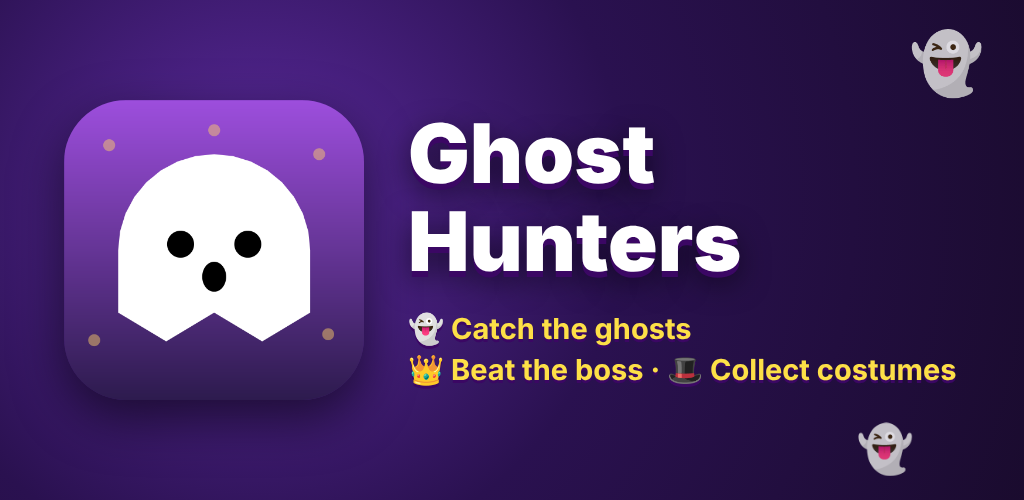
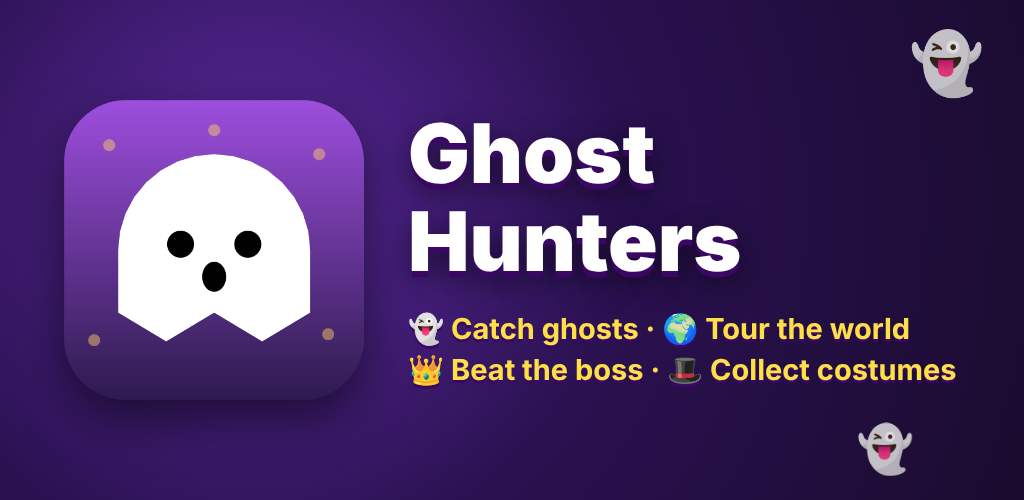
Hayalet Avcıları: tanıtım görseli 3.14.0'a göre (🌍 Dünyayı gez) ve Play'e yükleme isteği
- 7 dilde tanıtım görselinin alt yazısına Dünya Turu eklendi; İspanyolcada
  alt yazı 25 px (satırlar sözcük ortasından bölünmüyordu).
- Telefon kareleri değişmedi (Play'dekiyle aynı).
- play-istek.txt: gorsel uygula.

Claude-Session: https://claude.ai/code/session_015Vo1HAyPGueQrfJdNnp6L6

Changed region(s): [[0.5312, 0.63, 0.9062, 0.69]]

diff --git a/hayalet-avcilari/README.md b/hayalet-avcilari/README.md
@@ -7,7 +7,7 @@ giriş `@codetrix-studio/capacitor-google-auth`, reklamlar `@capacitor-community
 | | |
 |---|---|
 | Paket | `com.poyrazworkshop.hayaletavcilari` |
-| Sürüm | 3.14.0 (versionCode 47) — Dünya Turu (51 ülke, geleneksel kıyafetli bosslar, pasaport), ülke müzikleri, hiç sıkmayan reklam sıklığı (aşağıda "3.14.0: Dünya Turu" ve "3.14.0: ülke müzikleri"); 3.13.1'in reklam içerik sınırını da taşır (3.13.1 (46) Play'e gönderilmedi). 24 Ekim 2026'da kullanıcının onayıyla ("Kalan işleri de yap") üretime yüklendi ve incelemeye gönderildi (koşu 40122638806; üretimdeki 3.13.0 (45)'in yerini aldı); mağaza metni ve görseller 7 dilde 3.14.0'a göre (7 kare, yedincisi Dünya Turu). Dünya Turu odasının kuralları aynı gün yayınlandı (koşu 40122381332). Önceki: 3.13.0 (versionCode 45) — arkadaşlar ve oyuna davet, yeni engeller, online tur sıralaması ve kupa; 24 Ekim 2026'da kullanıcının onayıyla ("Evet, gönder") üretime yüklendi ve incelemeye gönderildi (koşu 40063254710; üretimdeki 3.12.2 (44)'ün yerini aldı); mağaza görselleri de 3.13.0'a göre yenilendi (7 dil, 6 kare: yeni engeller, kupa, Arkadaşlar; koşu 40064955789). Kurallar (arkadaş düğümleri, `av`, 3.12.2'nin `maxPlayers` 2–6'sı, 3.12.0 dizini) 24 Ekim 2026'da GitHub'dan yayınlandı (koşu 40066828973): [`firebase/README.md` › Yayınlama](firebase/README.md#yayınlama) |
+| Sürüm | 3.14.0 (versionCode 47) — Dünya Turu (51 ülke, geleneksel kıyafetli bosslar, pasaport), ülke müzikleri, hiç sıkmayan reklam sıklığı (aşağıda "3.14.0: Dünya Turu" ve "3.14.0: ülke müzikleri"); 3.13.1'in reklam içerik sınırını da taşır (3.13.1 (46) Play'e gönderilmedi). 24 Ekim 2026'da kullanıcının onayıyla ("Kalan işleri de yap") üretime yüklendi ve incelemeye gönderildi (koşu 40122638806; üretimdeki 3.13.0 (45)'in yerini aldı); mağaza metni ve görseller 7 dilde 3.14.0'a göre (7 kare, yedincisi Dünya Turu; tanıtım görselinin alt yazısında "🌍 Dünyayı gez"). Dünya Turu odasının kuralları aynı gün yayınlandı (koşu 40122381332). Önceki: 3.13.0 (versionCode 45) — arkadaşlar ve oyuna davet, yeni engeller, online tur sıralaması ve kupa; 24 Ekim 2026'da kullanıcının onayıyla ("Evet, gönder") üretime yüklendi ve incelemeye gönderildi (koşu 40063254710; üretimdeki 3.12.2 (44)'ün yerini aldı); mağaza görselleri de 3.13.0'a göre yenilendi (7 dil, 6 kare: yeni engeller, kupa, Arkadaşlar; koşu 40064955789). Kurallar (arkadaş düğümleri, `av`, 3.12.2'nin `maxPlayers` 2–6'sı, 3.12.0 dizini) 24 Ekim 2026'da GitHub'dan yayınlandı (koşu 40066828973): [`firebase/README.md` › Yayınlama](firebase/README.md#yayınlama) |
 | Diller | Türkçe, English, Español, 简体中文, हिन्दी, العربية (sağdan sola) |
 | Play'e yayın | [`magaza/PLAY-YAYIN.md`](magaza/PLAY-YAYIN.md) |
 | Gizlilik / hesap silme | `app/hayalet-avcilari/` → GitHub Pages |
